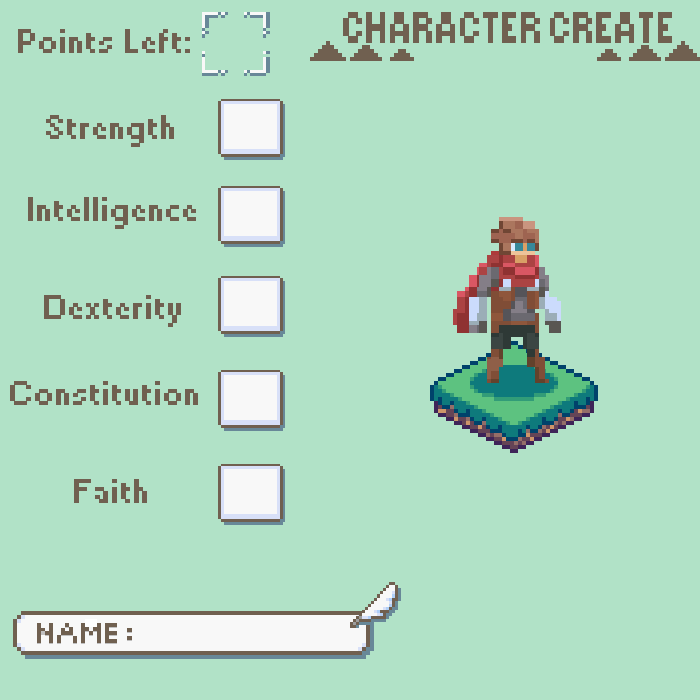
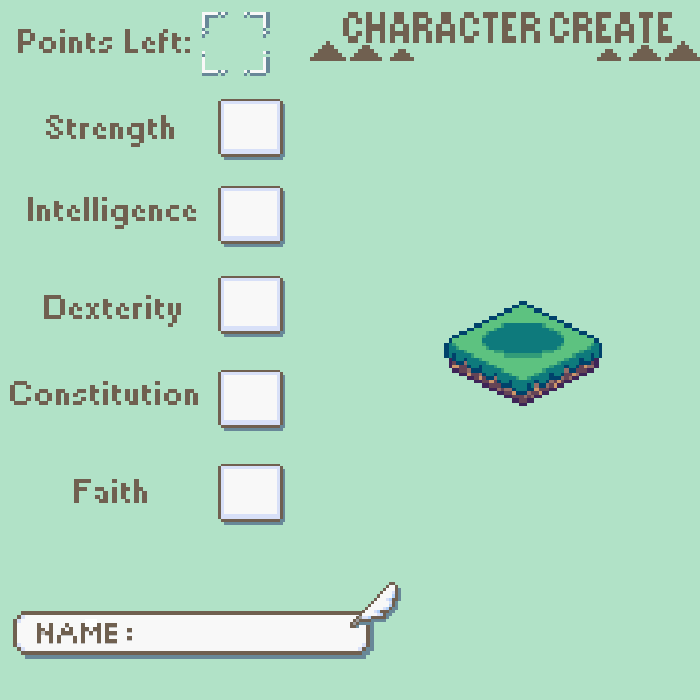
Changed the charater to transprant background

Changed region(s): [[0.6, 0.3, 0.87, 0.66]]

diff --git a/mainGame.cpp b/mainGame.cpp
@@ -288,6 +288,14 @@ bool characterCreateScreen() {
 	int dexterity = 1;
 	int constitution = 1;
 	int faith = 1;
+	int charImageX = 0;
+	int charImageY = 0;
+	int charImageW = 200;
+	int charImageH = 148;
+	int delaysPerFrame = 0;
+	int frame = 0;
+
+	SDL_Rect characterBox = { 436, 205, 200, 148 };
 	SDL_Rect pointsAllocatedRectangle = { 227, 32, 0, 0};
 	SDL_Rect strengthTextRectangle = { 250, 115, 0, 0 };
 	SDL_Rect intelligenceTextRectangle = { 250, 205, 0, 0 };
@@ -305,6 +313,10 @@ bool characterCreateScreen() {
 	std::vector<Button*> buttons;
 	SDL_Texture* upPress= loadImage("Images/UI/CreateScreen/pointUpArrow_Pressed.png");
 	SDL_Texture* downPress = loadImage("Images/UI/CreateScreen/pointDownArrow_Pressed.png");
+	SDL_Surface* loadedSurface = IMG_Load("Images/Player/Character_Idle.png");
+	SDL_Texture* character = NULL;
+	SDL_SetColorKey(loadedSurface, SDL_TRUE, SDL_MapRGB(loadedSurface->format, 0, 0xFF, 0xFF));//transprant background
+	character = SDL_CreateTextureFromSurface(gRenderer, loadedSurface);
 	//need attr objects
 	buttons.push_back(new Button("up", 340, 80, 46, 51, "Images/UI/CreateScreen/pointUpArrow.png", "strength"));
 	buttons.push_back(new Button("down", 340, 130, 46, 51, "Images/UI/CreateScreen/pointDownArrow.png", "strength"));
@@ -483,7 +495,27 @@ bool characterCreateScreen() {
 				i->pressed = false;
 			}
 		}
+		
+		
+		charImageX = frame * 200;
 
+		
+		SDL_Rect charactersRectangle = { charImageX, charImageY, charImageW, charImageH };
+		SDL_RenderCopy(gRenderer, character, &charactersRectangle, &characterBox);
+
+		
+
+		//to add more frames per image to make it more fluid
+		//definitely not the best way to do this, need to sync to a consistent gametime
+		delaysPerFrame++;
+		if (delaysPerFrame >= 6) {
+			frame++;
+			delaysPerFrame = 0;
+		}
+		if (frame == 4) {
+			frame = 0;
+		}
+		
 		std::string strengthString = std::to_string(strength);
 		std::string intelligenceString = std::to_string(intelligence);
 		std::string dexterityString = std::to_string(dexterity);
@@ -528,7 +560,11 @@ void playGame() {
 	SDL_RendererFlip flip = SDL_FLIP_NONE;
 	SDL_Rect characterBox = { 50, 50, 200, 148 };
 	SDL_Rect enemyBox = { 200, 200, 50, 50 };
-	SDL_Texture* characterTexture = loadImage("Images/Player/Character_Run.png");
+	SDL_Surface* loadedSurface = IMG_Load("Images/Player/Character_Run.png");
+	SDL_Texture* characterTexture = NULL;
+	SDL_SetColorKey(loadedSurface, SDL_TRUE, SDL_MapRGB(loadedSurface->format, 0, 0xFF, 0xFF));//transprant background
+	characterTexture = SDL_CreateTextureFromSurface(gRenderer, loadedSurface);
+	
 	int charMoveSpeed = 2;
 	int characterMoveAcceleration = 2;
 	int characterMoveMaxSpeed = 4;
